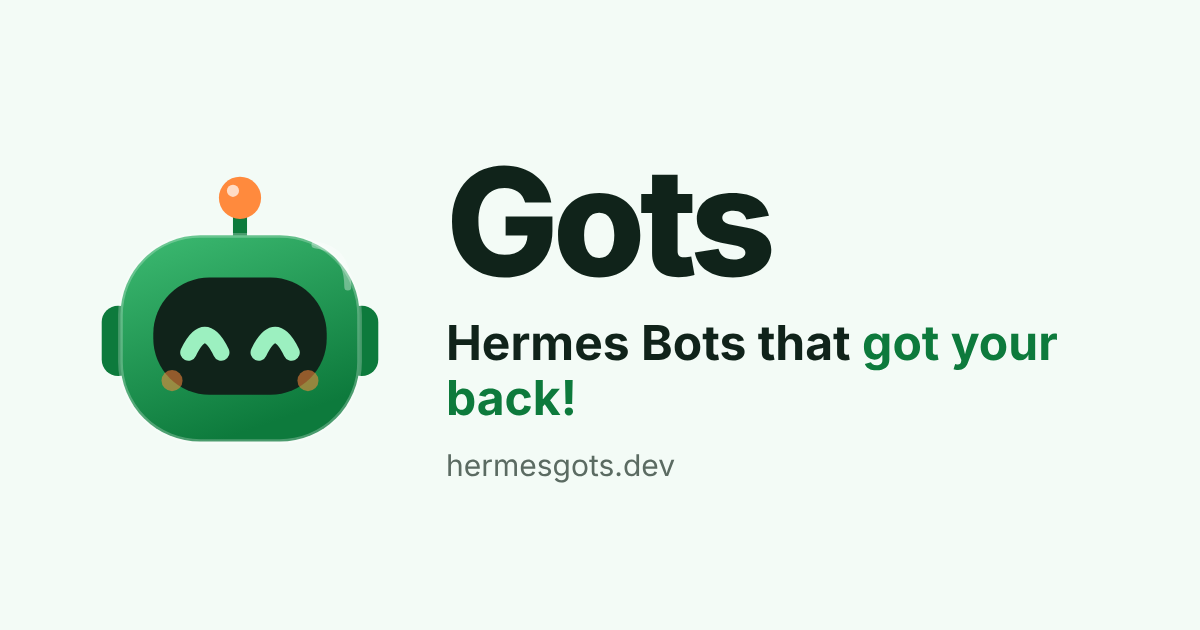
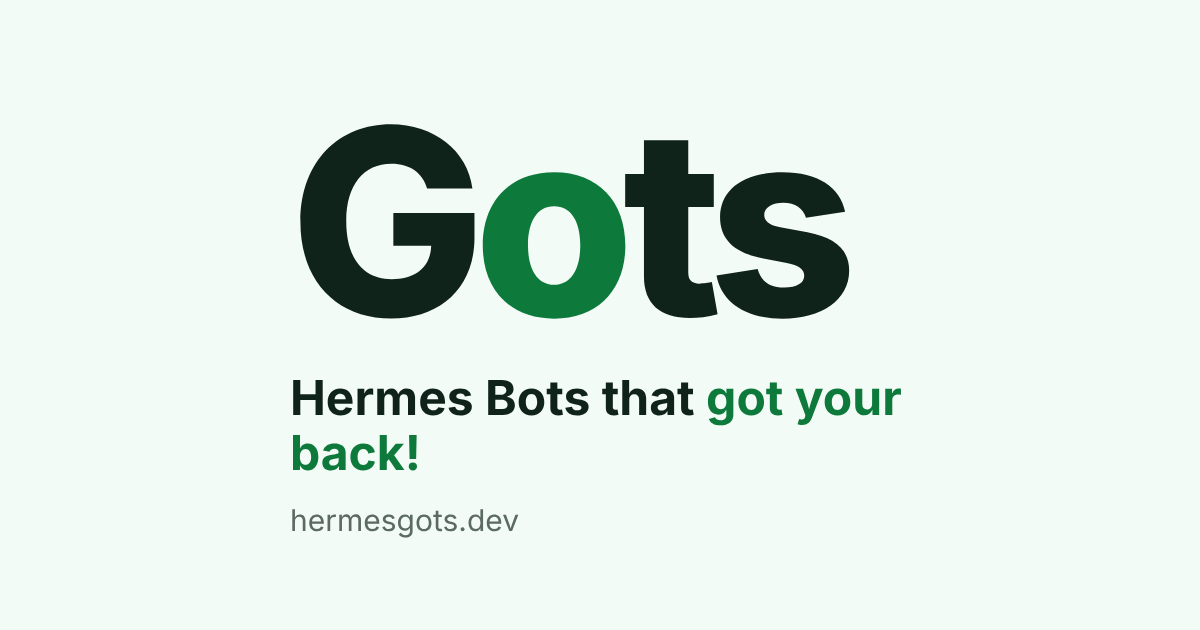
feat(website): use a text-only Gots wordmark
Replace the robot logo with the word Gots, its o in the brand green, and a
green G favicon and social image.

Claude-Session: https://claude.ai/code/session_01BNkgwnD2BW3NKYKaEWzdzk

Changed region(s): [[0.0617, 0.181, 0.8942, 0.754], [0.2467, 0.8143, 0.4317, 0.8444]]

diff --git a/website/src/styles/landing.css b/website/src/styles/landing.css
@@ -52,13 +52,10 @@ input:focus-visible,
 }
 
 .wordmark {
-  display: inline-flex;
-  align-items: center;
-  gap: 0.5rem;
   color: inherit;
   text-decoration: none;
-  font-size: 1.35rem;
-  font-weight: 700;
+  font-size: 1.5rem;
+  font-weight: 800;
   letter-spacing: -0.02em;
 }
 
@@ -919,7 +916,6 @@ html:not(.js) .dots {
   }
 }
 
-.logo {
-  width: 2rem;
-  height: 2rem;
+.wordmark .o {
+  color: var(--primary);
 }

diff --git a/AGENTS.md b/AGENTS.md
@@ -6,7 +6,7 @@ Guidance for AI coding agents (and humans) working on Memento: a playful, minima
 
 - `app/` is the web and Android app. Run every command below from `app/`; paths in the rest of this file are relative to it unless they start with `plugin/`.
 - `plugin/` is the Memento Hermes plugin (Python, no build step). See **Plugin** below. `plugin/skills/` holds the vendored Theseus skill (JavaScript, run by the host's Node 20+); don't edit it by hand.
-- `website/` is the public site for **Gots** (the product name from 2026-10-14, at hermesgots.dev; tagline "Hermes Bots that got your back!", SEO term "Hermes Bots"; the app, plugin and repo still say Memento; logo in `public/logo.svg`; Astro, static, plain CSS on the app's tokens): the landing page at `/` (a sticky scroll story, design only: its waiting-list form stores nothing yet) and the leaderboard at `/community`: its own Netlify site with the base directory set to `website/`, configured by `website/netlify.toml`. Run its commands (`pnpm dev`, `pnpm build`) from `website/`. Its leaderboard shows sample data until the community function exists (`src/lib/board.ts`).
+- `website/` is the public site for **Gots** (the product name from 2026-10-14, at hermesgots.dev; tagline "Hermes Bots that got your back!", SEO term "Hermes Bots"; the app, plugin and repo still say Memento; a text wordmark, with a green G favicon; Astro, static, plain CSS on the app's tokens): the landing page at `/` (a sticky scroll story, design only: its waiting-list form stores nothing yet) and the leaderboard at `/community`: its own Netlify site with the base directory set to `website/`, configured by `website/netlify.toml`. Run its commands (`pnpm dev`, `pnpm build`) from `website/`. Its leaderboard shows sample data until the community function exists (`src/lib/board.ts`).
 - `netlify.toml` stays at the root and sets `base = "app"`; it belongs to the app's site.
 
 ## Plugin first
